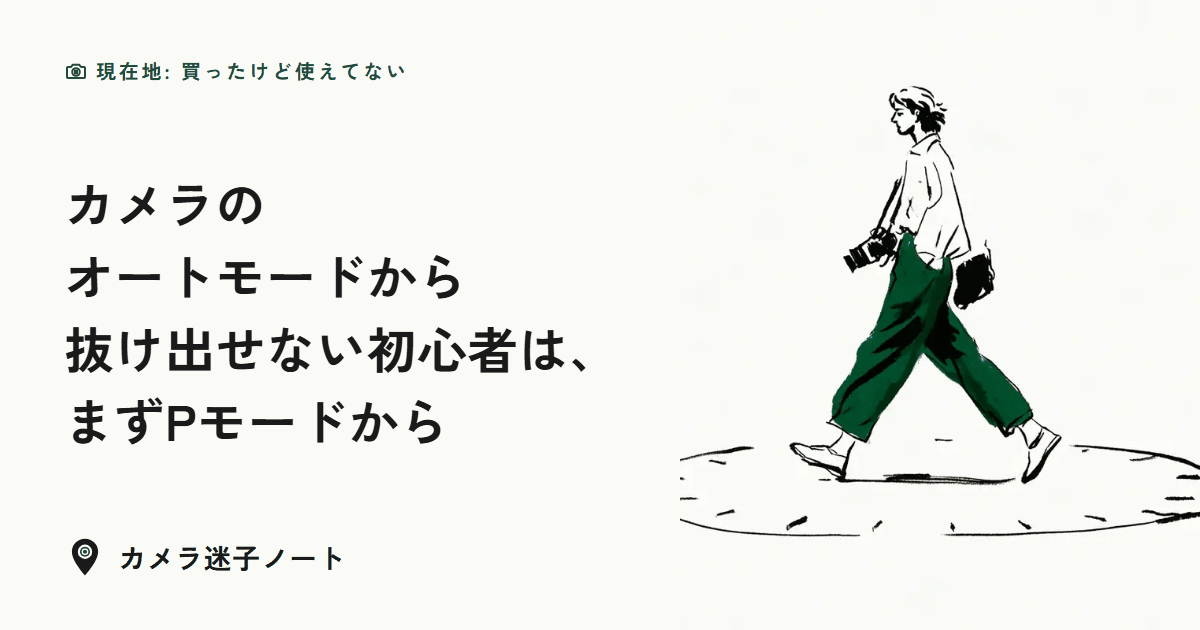
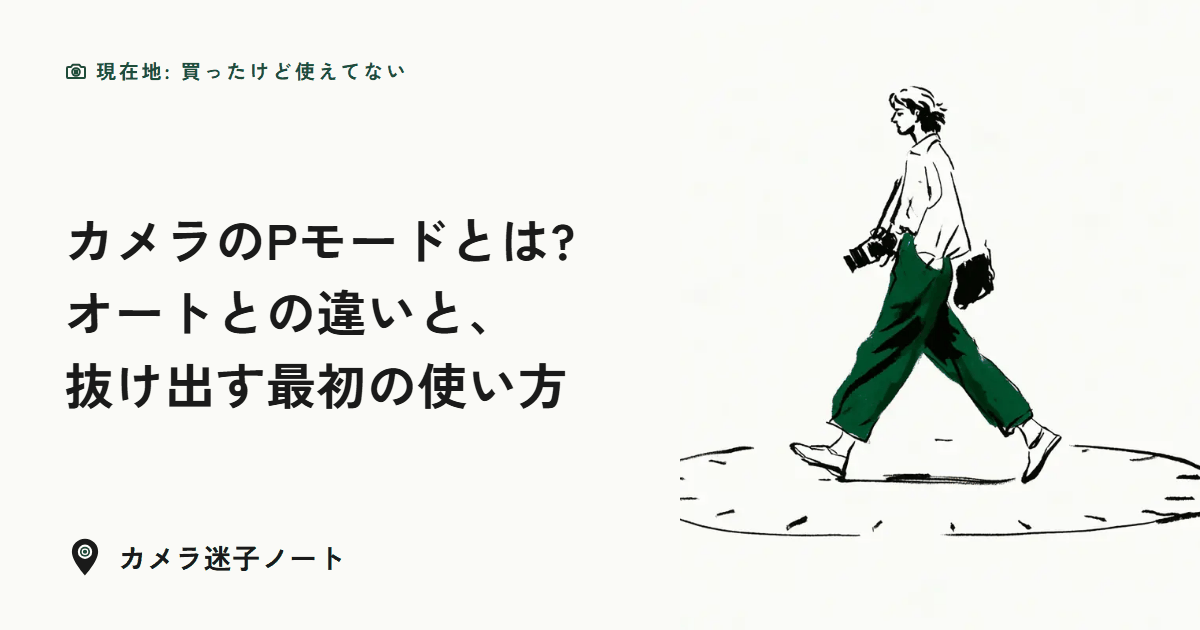
SEO: retitle auto-sotsugyou toward Pモード queries, update anchor texts, link yametoke to saisho-ichidai

Changed region(s): [[0.0308, 0.2714, 0.4933, 0.7238]]

diff --git a/auto-sotsugyou/index.html b/auto-sotsugyou/index.html
@@ -4,13 +4,13 @@
 <meta charset="UTF-8">
 <meta name="viewport" content="width=device-width, initial-scale=1.0">
 <meta http-equiv="Content-Security-Policy" content="default-src 'self'; script-src 'self' 'unsafe-inline' https://www.googletagmanager.com; style-src 'self' 'unsafe-inline' https://fonts.googleapis.com; font-src https://fonts.gstatic.com; img-src 'self' data: https://*.google-analytics.com https://www.googletagmanager.com https://*.a8.net; connect-src 'self' https://www.google-analytics.com https://*.google-analytics.com https://*.analytics.google.com https://www.googletagmanager.com; object-src 'none'; base-uri 'self'">
-<title>カメラのオートモードから抜け出せない初心者は、まずPモードから|カメラ迷子ノート</title>
-<meta name="description" content="オートから抜け出せないなら、最初はPモードから。ISOはオートにしておき、触るのは露出補正だけ。メーカーごとの勧め方の違い、電源を切っても残る補正の戻し方、迷ったときのリセットまで図で整理。">
+<title>カメラのPモードとは?オートとの違いと、抜け出す最初の使い方|カメラ迷子ノート</title>
+<meta name="description" content="Pモード(プログラムオート)は、絞りとシャッタースピードをカメラが決め、露出補正などは自分で変えられるモード。オートから抜け出す最初は、ISOオートのまま露出補正だけ。Aモードとの違い、残る補正の戻し方、リセットまで図で整理。">
 <link rel="canonical" href="https://uuhai0625.github.io/camera-maigo-note/auto-sotsugyou/">
 <meta property="og:type" content="article">
 <meta property="og:site_name" content="カメラ迷子ノート">
-<meta property="og:title" content="カメラのオートモードから抜け出せない初心者は、まずPモードから|カメラ迷子ノート">
-<meta property="og:description" content="オートから抜け出せないなら、最初はPモードから。ISOはオートにしておき、触るのは露出補正だけ。メーカーごとの勧め方の違い、電源を切っても残る補正の戻し方、迷ったときのリセットまで図で整理。">
+<meta property="og:title" content="カメラのPモードとは?オートとの違いと、抜け出す最初の使い方|カメラ迷子ノート">
+<meta property="og:description" content="Pモード(プログラムオート)は、絞りとシャッタースピードをカメラが決め、露出補正などは自分で変えられるモード。オートから抜け出す最初は、ISOオートのまま露出補正だけ。Aモードとの違い、残る補正の戻し方、リセットまで図で整理。">
 <meta property="og:url" content="https://uuhai0625.github.io/camera-maigo-note/auto-sotsugyou/">
 <meta property="og:locale" content="ja_JP">
 <meta property="og:image" content="https://uuhai0625.github.io/camera-maigo-note/auto-sotsugyou/ogp.png">
@@ -27,7 +27,7 @@
 <link rel="stylesheet" href="../style.css">
 <script src="../ga.js" defer></script>
 <script type="application/ld+json">
-{"@context": "https://schema.org", "@graph": [{"@type": "Article", "headline": "カメラのオートモードから抜け出せない初心者は、まずPモードから", "description": "オートから抜け出せないなら、最初はPモードから。ISOはオートにしておき、触るのは露出補正だけ。メーカーごとの勧め方の違い、電源を切っても残る補正の戻し方、迷ったときのリセットまで図で整理。", "url": "https://uuhai0625.github.io/camera-maigo-note/auto-sotsugyou/", "mainEntityOfPage": "https://uuhai0625.github.io/camera-maigo-note/auto-sotsugyou/", "datePublished": "2026-10-02T09:00:00+09:00", "dateModified": "2026-10-09T09:00:00+09:00", "inLanguage": "ja", "author": {"@type": "Organization", "name": "カメラ迷子ノート", "url": "https://uuhai0625.github.io/camera-maigo-note/about/"}, "publisher": {"@type": "Organization", "name": "カメラ迷子ノート", "url": "https://uuhai0625.github.io/camera-maigo-note/", "logo": {"@type": "ImageObject", "url": "https://uuhai0625.github.io/camera-maigo-note/images/logo-square-512.png"}}, "image": "https://uuhai0625.github.io/camera-maigo-note/auto-sotsugyou/ogp.png"}, {"@type": "BreadcrumbList", "itemListElement": [{"@type": "ListItem", "position": 1, "name": "カメラ迷子ノート", "item": "https://uuhai0625.github.io/camera-maigo-note/"}, {"@type": "ListItem", "position": 2, "name": "買ったけど使えてない", "item": "https://uuhai0625.github.io/camera-maigo-note/#stuck"}, {"@type": "ListItem", "position": 3, "name": "カメラのオートモードから抜け出せない初心者は、まずPモードから", "item": "https://uuhai0625.github.io/camera-maigo-note/auto-sotsugyou/"}]}]}
+{"@context": "https://schema.org", "@graph": [{"@type": "Article", "headline": "カメラのPモードとは?オートとの違いと、抜け出す最初の使い方", "description": "Pモード(プログラムオート)は、絞りとシャッタースピードをカメラが決め、露出補正などは自分で変えられるモード。オートから抜け出す最初は、ISOオートのまま露出補正だけ。Aモードとの違い、残る補正の戻し方、リセットまで図で整理。", "url": "https://uuhai0625.github.io/camera-maigo-note/auto-sotsugyou/", "mainEntityOfPage": "https://uuhai0625.github.io/camera-maigo-note/auto-sotsugyou/", "datePublished": "2026-10-02T09:00:00+09:00", "dateModified": "2026-10-14T09:00:00+09:00", "inLanguage": "ja", "author": {"@type": "Organization", "name": "カメラ迷子ノート", "url": "https://uuhai0625.github.io/camera-maigo-note/about/"}, "publisher": {"@type": "Organization", "name": "カメラ迷子ノート", "url": "https://uuhai0625.github.io/camera-maigo-note/", "logo": {"@type": "ImageObject", "url": "https://uuhai0625.github.io/camera-maigo-note/images/logo-square-512.png"}}, "image": "https://uuhai0625.github.io/camera-maigo-note/auto-sotsugyou/ogp.png"}, {"@type": "BreadcrumbList", "itemListElement": [{"@type": "ListItem", "position": 1, "name": "カメラ迷子ノート", "item": "https://uuhai0625.github.io/camera-maigo-note/"}, {"@type": "ListItem", "position": 2, "name": "買ったけど使えてない", "item": "https://uuhai0625.github.io/camera-maigo-note/#stuck"}, {"@type": "ListItem", "position": 3, "name": "カメラのPモードとは?オートとの違いと、抜け出す最初の使い方", "item": "https://uuhai0625.github.io/camera-maigo-note/auto-sotsugyou/"}]}]}
 </script>
 </head>
 <body>
@@ -44,13 +44,13 @@
 <main id="main" class="page">
 <p class="breadcrumb"><a href="../">カメラ迷子ノート</a> › <a href="../#stuck">買ったけど使えてない</a></p>
 <p class="here"><svg class="icon" width="14" height="14" viewBox="0 0 24 24" fill="none" stroke="currentColor" stroke-width="2" stroke-linecap="round" stroke-linejoin="round" aria-hidden="true"><path d="M4 8h3l1.6-2.2h6.8L17 8h3a1 1 0 0 1 1 1v9a1 1 0 0 1-1 1H4a1 1 0 0 1-1-1V9a1 1 0 0 1 1-1z"/><circle cx="12" cy="13" r="3.8"/><path d="M11 11.6v2.8M13 11.6v2.8"/></svg>現在地: 買ったけど使えてない</p>
-<h1>カメラのオートモードから抜け出せない初心者は、まずPモードから</h1>
-<p class="meta">公開 2026-10-02 / 更新 2026-10-09</p>
+<h1>カメラのPモードとは?オートとの違いと、抜け出す最初の使い方</h1>
+<p class="meta">公開 2026-10-02 / 更新 2026-10-14</p>
 <figure class="pic eyecatch"><img src="../images/illust/eye-auto.webp" srcset="../images/illust/eye-auto-m.webp 720w, ../images/illust/eye-auto.webp 1200w" sizes="(max-width: 760px) calc(100vw - 32px), 720px" width="1200" height="800" alt="ダイヤルのような円の上を、カメラを手に歩き出す人の線画イラスト" fetchpriority="high" decoding="async"></figure>
-<p>オートから抜け出せないなら、最初の一歩はPモードです。ISO感度はオートにしておき、自分で触るのは露出補正だけにします。</p>
+<p>Pモード(プログラムオート)は、絞りとシャッタースピードをカメラが決め、露出補正などは自分で変えられるモードです。オートから抜け出せないなら、最初の一歩はPモードです。ISO感度はオートにしておき、自分で触るのは露出補正だけにします。</p>
 <p>範囲は2つに絞ります。明るさが思い通りにならないならPと露出補正、背景をぼかしたいならA(キヤノンではAv)。</p>
 <p><strong>この記事で分かること</strong></p>
-<ul><li><a href="#chigai">全自動とPモードは何が違うのか</a></li><li><a href="#riyuu">メーカーの勧め方は分かれている中で、Pを選んだ理由</a></li><li><a href="#roshutsu-hosei">露出補正は電源を切っても残る機種がある、その戻し方</a></li></ul>
+<ul><li><a href="#chigai">Pモードとは何か、全自動とどう違うのか</a></li><li><a href="#riyuu">メーカーの勧め方は分かれている中で、Pを選んだ理由</a></li><li><a href="#roshutsu-hosei">露出補正は電源を切っても残る機種がある、その戻し方</a></li></ul>
 <p>私はカメラを持たずに調べる側です。この記事は、キヤノン・ニコン・ソニー・パナソニック・OM SYSTEMの説明書と入門ページを読み比べて書きました。実機で試した話はありません。ダイヤルを回すのが怖い人は、先に<a href="#modorikata">戻り方</a>から読んでも大丈夫です。</p>
 <h2 id="tejun">最初の1回の手順</h2>
 <p>順番は私の整理で、メーカーが決めたものではありません。</p>
@@ -65,7 +65,7 @@
   <figcaption><svg class="icon" width="14" height="14" viewBox="0 0 24 24" fill="none" stroke="currentColor" stroke-width="2" stroke-linecap="round" stroke-linejoin="round" aria-hidden="true"><path d="M4 5h16v11h-9l-4.5 3.5V16H4z"/><path d="M9 9.5v2M15 9.5v2"/></svg>出典: <a href="https://cafewriter.hatenablog.com/entry/2014/08/26/234615" target="_blank" rel="noopener">コメモ。「オートでばかり撮っていたデジタル一眼初心者が、いかにしてマニュアルモードで撮るに至ったか。」</a></figcaption>
 </figure>
 <p><a class="term" href="../yougo/#roshutsu">露出</a>は、センサー(光を受け止める板)にどれだけ光を入れるか、ということです。全自動では、その調整をどこでやるのかが見えません。これが、抜け出せない理由のいちばん手前にあるものだと思います。だから、調整の入口が1つだけ開くモードから始めます。</p>
-<h2 id="chigai">全自動とPモードは何が違う?</h2>
+<h2 id="chigai">Pモード(プログラムオート)とは? 全自動(オート)との違い</h2>
 <p>この節は、モードダイヤルのAUTOやA+のような全自動と、Pモードの違いの話です。まず、モードごとに何をカメラが決め、何を自分で決めるのかを表にしました。</p>
 <figure class="fig">
   <svg viewBox="0 0 340 332" role="img" aria-label="モードごとに、誰が決めるかの表。全自動は絞りもシャッタースピードもカメラが決め、露出補正などを自分で変えられるかは機種による。Pは絞りとシャッタースピードをカメラが決め、露出補正などは自分で変えられる。A/Avは絞りを自分で、S/Tvはシャッタースピードを自分で決める。Mはどちらも自分で決め、明るさも自分で合わせる(露出補正が使えるのはISOオートのときなど条件つき)。この記事の次の一歩はP。">
@@ -165,7 +165,7 @@
   <figcaption><svg class="icon" width="14" height="14" viewBox="0 0 24 24" fill="none" stroke="currentColor" stroke-width="2" stroke-linecap="round" stroke-linejoin="round" aria-hidden="true"><path d="M4 5h16v11h-9l-4.5 3.5V16H4z"/><path d="M9 9.5v2M15 9.5v2"/></svg>出典: <a href="https://eww.pavc.panasonic.co.jp/dscoi/DC-S9jp/html/DC-S9_DVQP3137_jpn/0067.html" target="_blank" rel="noopener">パナソニック LUMIX S9 取扱説明書「露出補正」</a></figcaption>
 </figure>
 <p>S9は初期設定でこの動きで、電源を切ったらリセットする設定もあります。キヤノンのR50も、補正量は電源を切っても記憶されます(<a href="https://cam.start.canon/ja/C011/manual/html/UG-05_Shooting-1_0070.html" target="_blank" rel="noopener">R50の露出補正のページ</a>)。ニコンのZ30も、オート以外のモードでは解除されません。+に動かしたまま忘れると、次に撮るときも明るめのままです。使い終わったら補正を0に戻す、までを1セットにしてください。確認したのはこの3機種なので、ほかの機種は自分の説明書で確かめてください。</p>
-<h2 id="wakaremichi">背景をぼかしたいなら絞り優先(A/Av)という分かれ道</h2>
+<h2 id="wakaremichi">PモードとAモード(絞り優先)の違い:背景をぼかしたいときの分かれ道</h2>
 <p>この節は、Pの次ではなく、Pと並ぶもう1つの入口の話です。背景をぼかしたい、と目的がはっきりしているなら、最初からA(キヤノンではAv)を選ぶのも妥当だと思います。上の表で、ソニーのαcafeのレッスン1がAなのは、ぼけ味のレッスンだからです(<a href="https://acafe.msc.sony.jp/college/lesson/1.html" target="_blank" rel="noopener">αcafeのレッスン1</a>)。</p>
 <p>Aは、<a class="term" href="../yougo/#shibori">絞り</a>(F値)を自分で決め、シャッタースピードはカメラが決めるモードです。F値はレンズの光の通り道の広さを表す数字で、小さいほど穴が大きく開きます。ソニーのα6400では、絞り値を小さくすると被写体の前後がぼけます(<a href="https://helpguide.sony.net/ilc/1810/v1/ja/contents/TP0002250605.html" target="_blank" rel="noopener">α6400の絞り優先のページ</a>)。キヤノンのR50も、絞り数値を小さくするとピントの合う範囲が狭くなる、という説明です(<a href="https://cam.start.canon/ja/C011/manual/html/UG-03_CustomShooting_0040.html" target="_blank" rel="noopener">R50のAvモードのページ</a>)。ただし、<a class="term" href="../yougo/#boke">ボケ</a>の大きさはF値だけで決まりません。望遠にする、被写体に近づく、背景を遠くする、でも大きくなります。</p>
 <p>気をつけたいのは、AでF値を小さくしても、写真が明るくなるわけではないことです。カメラがシャッタースピードを変えて、明るさをそろえるからです。</p>

diff --git a/roshutsu-hosei/index.html b/roshutsu-hosei/index.html
@@ -27,7 +27,7 @@
 <link rel="stylesheet" href="../style.css">
 <script src="../ga.js" defer></script>
 <script type="application/ld+json">
-{"@context": "https://schema.org", "@graph": [{"@type": "Article", "headline": "一眼の写真が暗い・白っぽい…露出補正で直る場面と直らない場面", "description": "明るい場所なのに一眼の写真が暗い・白っぽいのは、カメラが画面を中間の明るさに近づけるから。露出補正は白い背景なら+、黒い服なら−が基本。例外と確かめ方、Mモードなど効かない場面も整理。", "url": "https://uuhai0625.github.io/camera-maigo-note/roshutsu-hosei/", "mainEntityOfPage": "https://uuhai0625.github.io/camera-maigo-note/roshutsu-hosei/", "datePublished": "2026-10-04T09:00:00+09:00", "dateModified": "2026-10-09T09:00:00+09:00", "inLanguage": "ja", "author": {"@type": "Organization", "name": "カメラ迷子ノート", "url": "https://uuhai0625.github.io/camera-maigo-note/about/"}, "publisher": {"@type": "Organization", "name": "カメラ迷子ノート", "url": "https://uuhai0625.github.io/camera-maigo-note/", "logo": {"@type": "ImageObject", "url": "https://uuhai0625.github.io/camera-maigo-note/images/logo-square-512.png"}}, "image": "https://uuhai0625.github.io/camera-maigo-note/roshutsu-hosei/ogp.png"}, {"@type": "BreadcrumbList", "itemListElement": [{"@type": "ListItem", "position": 1, "name": "カメラ迷子ノート", "item": "https://uuhai0625.github.io/camera-maigo-note/"}, {"@type": "ListItem", "position": 2, "name": "買ったけど使えてない", "item": "https://uuhai0625.github.io/camera-maigo-note/#stuck"}, {"@type": "ListItem", "position": 3, "name": "一眼の写真が暗い・白っぽい…露出補正で直る場面と直らない場面", "item": "https://uuhai0625.github.io/camera-maigo-note/roshutsu-hosei/"}]}]}
+{"@context": "https://schema.org", "@graph": [{"@type": "Article", "headline": "一眼の写真が暗い・白っぽい…露出補正で直る場面と直らない場面", "description": "明るい場所なのに一眼の写真が暗い・白っぽいのは、カメラが画面を中間の明るさに近づけるから。露出補正は白い背景なら+、黒い服なら−が基本。例外と確かめ方、Mモードなど効かない場面も整理。", "url": "https://uuhai0625.github.io/camera-maigo-note/roshutsu-hosei/", "mainEntityOfPage": "https://uuhai0625.github.io/camera-maigo-note/roshutsu-hosei/", "datePublished": "2026-10-04T09:00:00+09:00", "dateModified": "2026-10-14T09:00:00+09:00", "inLanguage": "ja", "author": {"@type": "Organization", "name": "カメラ迷子ノート", "url": "https://uuhai0625.github.io/camera-maigo-note/about/"}, "publisher": {"@type": "Organization", "name": "カメラ迷子ノート", "url": "https://uuhai0625.github.io/camera-maigo-note/", "logo": {"@type": "ImageObject", "url": "https://uuhai0625.github.io/camera-maigo-note/images/logo-square-512.png"}}, "image": "https://uuhai0625.github.io/camera-maigo-note/roshutsu-hosei/ogp.png"}, {"@type": "BreadcrumbList", "itemListElement": [{"@type": "ListItem", "position": 1, "name": "カメラ迷子ノート", "item": "https://uuhai0625.github.io/camera-maigo-note/"}, {"@type": "ListItem", "position": 2, "name": "買ったけど使えてない", "item": "https://uuhai0625.github.io/camera-maigo-note/#stuck"}, {"@type": "ListItem", "position": 3, "name": "一眼の写真が暗い・白っぽい…露出補正で直る場面と直らない場面", "item": "https://uuhai0625.github.io/camera-maigo-note/roshutsu-hosei/"}]}]}
 </script>
 </head>
 <body>
@@ -45,7 +45,7 @@
 <p class="breadcrumb"><a href="../">カメラ迷子ノート</a> › <a href="../#stuck">買ったけど使えてない</a></p>
 <p class="here"><svg class="icon" width="14" height="14" viewBox="0 0 24 24" fill="none" stroke="currentColor" stroke-width="2" stroke-linecap="round" stroke-linejoin="round" aria-hidden="true"><path d="M4 8h3l1.6-2.2h6.8L17 8h3a1 1 0 0 1 1 1v9a1 1 0 0 1-1 1H4a1 1 0 0 1-1-1V9a1 1 0 0 1 1-1z"/><circle cx="12" cy="13" r="3.8"/><path d="M11 11.6v2.8M13 11.6v2.8"/></svg>現在地: 買ったけど使えてない</p>
 <h1>一眼の写真が暗い・白っぽい…露出補正で直る場面と直らない場面</h1>
-<p class="meta">公開 2026-10-04 / 更新 2026-10-09</p>
+<p class="meta">公開 2026-10-04 / 更新 2026-10-14</p>
 <figure class="pic eyecatch"><img src="../images/illust/eye-roshutsu.webp" srcset="../images/illust/eye-roshutsu-m.webp 720w, ../images/illust/eye-roshutsu.webp 1200w" sizes="(max-width: 760px) calc(100vw - 32px), 720px" width="1200" height="800" alt="並んで座る白い猫と黒い猫を、しゃがんでカメラで撮っている人の線画イラスト" fetchpriority="high" decoding="async"></figure>
 <p>明るい場所で撮ったのに、一眼レフやミラーレス(レンズを交換できるカメラ)の写真が暗い、または白っぽい。露出補正(カメラが決めた明るさを、自分で少し明るく・暗くずらす機能。<a class="term" href="../yougo/#roshutsu-hosei">言葉の意味</a>)を、画面の大部分が白っぽいなら+、黒っぽいなら−に動かすと直る場面があります。カメラが画面全体を中間の明るさに近づけようとするために起きるずれだからです。ただし、空と地上の明暗差や、明るさを全部自分で決めるMモードのように、露出補正では直らない場面もあります。</p>
 <p>症状と場面から補正の向きを引くなら、<a href="#hayami">症状別の早見表</a>へ。暗い場所でブレる・ザラザラになるのは別の原因なので、<a href="../kurai-bure/">暗いところで撮れない…</a>のほうが合います。</p>
@@ -227,7 +227,7 @@
 <p>表示の−1.0は、カメラが決めた明るさ(タムロンの言い方では標準露出)より1段暗い、という意味です(<a href="https://nij.nikon.com/learn/phototech/manual/04/07.html" target="_blank" rel="noopener">ニコン「露出補正」</a>)。α6400やOM-5 Mark IIのように、画面で見える範囲と記録される範囲が違う機種もあります。</p>
 <h2 id="gokai">露出補正がわからない…つまずきやすい誤解</h2>
 <p>35人の声の中には、向きより手前でつまずいた人が何人もいました。整理すると4つです。</p>
-<p><strong>撮った後の加工ではない。</strong> 露出補正は撮影後に編集でするのか、と質問した人が2人いました(<a href="https://detail.chiebukuro.yahoo.co.jp/qa/question_detail/q10270907745" target="_blank" rel="noopener">2022年の相談</a>、<a href="https://detail.chiebukuro.yahoo.co.jp/qa/question_detail/q14270254434" target="_blank" rel="noopener">2022年の別の相談</a>)。撮影のときに明るさそのものを変える機能で、仕組みは<a href="../auto-sotsugyou/#roshutsu-hosei">オートモードから抜け出せない…</a>に書きました。</p>
+<p><strong>撮った後の加工ではない。</strong> 露出補正は撮影後に編集でするのか、と質問した人が2人いました(<a href="https://detail.chiebukuro.yahoo.co.jp/qa/question_detail/q10270907745" target="_blank" rel="noopener">2022年の相談</a>、<a href="https://detail.chiebukuro.yahoo.co.jp/qa/question_detail/q14270254434" target="_blank" rel="noopener">2022年の別の相談</a>)。撮影のときに明るさそのものを変える機能で、仕組みは<a href="../auto-sotsugyou/#roshutsu-hosei">カメラのPモードとは?…</a>に書きました。</p>
 <p><strong>ISO感度とは別もの。</strong> 露出補正を上げればISO感度を上げる必要はないのでは、と質問した人は、勘違いだったとお礼を書いていました(<a href="https://detail.chiebukuro.yahoo.co.jp/qa/question_detail/q10222166920" target="_blank" rel="noopener">2020年の相談</a>)。回答者の助言は、ISOを変えることと露出補正では撮影結果が違うので切り離して考える、でした。逆光でのISOの値を質問した人には、絞りとシャッタースピードがオートならISOを変えても写真の明るさは変わらない、という回答です(<a href="https://detail.chiebukuro.yahoo.co.jp/qa/question_detail/q11315459031" target="_blank" rel="noopener">2025年の相談</a>)。暗い室内の話は、<a href="../kurai-bure/">暗いところで撮れない…</a>のほうです。</p>
 <p><strong>Mモードの露出の目盛りは、補正値ではない。</strong> 設定した記憶がないのに露出が−3から動かない、という相談がありました(<a href="https://detail.chiebukuro.yahoo.co.jp/qa/question_detail/q11109196726" target="_blank" rel="noopener">2013年の相談、OM-D E-M5</a>)。回答は、その−3は補正ではなく、絞りとシャッタースピードの組み合わせが適正より3段暗いという表示だ、というものです。</p>
 <p><strong>ホワイトバランスでは直らない。</strong> 白い背景が灰色に写り、ホワイトバランス(色合いの調整)を変えても白に近づかない人がいました(<a href="https://detail.chiebukuro.yahoo.co.jp/qa/question_detail/q1091229625" target="_blank" rel="noopener">2012年の相談</a>)。回答者は、白が灰色に写るならホワイトバランスは狂っていない、と答えています。</p>
@@ -241,7 +241,7 @@
 <p>この記事で数えたのは、写真の明るさや露出補正について書いた35人です。28人がYahoo!知恵袋、7人がnoteで、質問者は全員、回答者は自分の撮影体験や作例を書いた2人だけを数えました。noteの7人のうち3人は、解説記事の書き手です。投稿の年代は2008〜2013年が11人、2019年以降が23人、その間が1人で、古い相談が目立ちます。コンパクトカメラやレンズ一体型で撮っていた人も5人いて、一眼レフやミラーレスだけの話ではありません。場面ごとの分け方は私の読み方です。知恵袋が多いぶん、うまくいかなかった瞬間の声が中心で、どの場面の人が多かったかは分け方で入れ替わる程度の差なので、順位は書きません。</p>
 <section class="next" aria-labelledby="next-h">
   <h2 id="next-h">次に読むなら</h2>
-  <ul><li><a href="../kurai-bure/">暗いところで撮れない…室内・夜にブレる・ザラザラになる原因と対策</a></li><li><a href="../auto-sotsugyou/">カメラのオートモードから抜け出せない初心者は、まずPモードから</a></li><li><a href="../#stuck">「買ったけど使えてない」の記事をもっと見る</a></li></ul>
+  <ul><li><a href="../kurai-bure/">暗いところで撮れない…室内・夜にブレる・ザラザラになる原因と対策</a></li><li><a href="../auto-sotsugyou/">カメラのPモードとは?オートとの違いと、抜け出す最初の使い方</a></li><li><a href="../#stuck">「買ったけど使えてない」の記事をもっと見る</a></li></ul>
 </section>
 <h2 id="yonda">この記事で読んだ61件</h2>
 <h3>メーカー公式・取扱説明書</h3>

diff --git a/yougo/index.html b/yougo/index.html
@@ -62,7 +62,7 @@
 <section id="shibori">
   <h2>絞り(F値)</h2>
   <p>F値は光の通り道の広さを表す数字。数字が小さいほど穴が大きく、多くの光が通り、背景はぼけやすい。(写真の明るさは、カメラがシャッタースピードなどで合わせ直すことが多い)</p>
-  <p class="term-rel">この言葉が出てくる記事: <a href="../kurai-bure/">暗いところで撮れない…室内・夜にブレる・ザラザラになる原因と対策</a>、<a href="../auto-sotsugyou/">カメラのオートモードから抜け出せない初心者は、まずPモードから</a></p>
+  <p class="term-rel">この言葉が出てくる記事: <a href="../kurai-bure/">暗いところで撮れない…室内・夜にブレる・ザラザラになる原因と対策</a>、<a href="../auto-sotsugyou/">カメラのPモードとは?オートとの違いと、抜け出す最初の使い方</a></p>
   <details><summary>もう少し正確に言うと</summary><p class="def">絞りはレンズの中で光の通る穴の大きさを変える仕組みで、F値(絞り値)はその明るさを表す数値。F値は「焦点距離÷有効口径」で求められる(Canon)。F値が小さいほど穴が大きく開き、多くの光が通る。F値が大きいほど穴が小さくなり、光は少なくなる。</p><ul><li><a href="https://nij.nikon.com/learn/phototech/manual/04/04.html" target="_blank" rel="noopener">Nikon「絞り値(F値)」</a></li><li><a href="https://personal.canon.jp/articles/beginner/glossary/f-chi" target="_blank" rel="noopener">Canon 写真用語集「F値」</a></li></ul></details>
 </section>
 <section id="shutter-speed">
@@ -80,7 +80,7 @@
 <section id="roshutsu-hosei">
   <h2>露出補正</h2>
   <p>カメラ任せの明るさに「もうちょっと明るく/暗く」と注文をつける機能。</p>
-  <p class="term-rel">この言葉が出てくる記事: <a href="../roshutsu-hosei/">一眼の写真が暗い・白っぽい…露出補正で直る場面と直らない場面</a>、<a href="../auto-sotsugyou/">カメラのオートモードから抜け出せない初心者は、まずPモードから</a></p>
+  <p class="term-rel">この言葉が出てくる記事: <a href="../roshutsu-hosei/">一眼の写真が暗い・白っぽい…露出補正で直る場面と直らない場面</a>、<a href="../auto-sotsugyou/">カメラのPモードとは?オートとの違いと、抜け出す最初の使い方</a></p>
   <details><summary>もう少し正確に言うと</summary><p class="def">カメラが自動で決めた露出を基準にして、写真を意図的に明るく(+側)または暗く(−側)する機能。多くの場合、1/3段刻みで設定する(例: −1.0、−0.7、−0.3、0、+0.3、+0.7、+1.0)。主にP・A(Av)・S(Tv)などの自動露出モードで使う。</p><p class="def-note"><b>注意</b></p><ul class="def"><li>Mモードでの露出補正の扱い(ISOオート併用時に効くかどうか等)は機種によって違う。記事で触れる場合は「機種によって異なる」と書く。</li></ul><ul><li><a href="https://nij.nikon.com/learn/phototech/manual/04/07.html" target="_blank" rel="noopener">Nikon「露出補正」</a></li><li><a href="https://personal.canon.jp/articles/beginner/glossary/exposure-compensation" target="_blank" rel="noopener">Canon 写真用語集「露出補正」</a></li></ul></details>
 </section>
 <section id="hishakai-shindo">
@@ -92,7 +92,7 @@
 <section id="boke">
   <h2>ボケ</h2>
   <p>ピントが合っていないところがふんわりにじむこと。F値を小さくする、望遠にする、被写体に近づく、背景を遠くする、の4つで大きくなる。</p>
-  <p class="term-rel">この言葉が出てくる記事: <a href="../smartphone-jubun/">スマホで十分、一眼はいらない?カメラで差が出やすい3つの場面</a>、<a href="../auto-sotsugyou/">カメラのオートモードから抜け出せない初心者は、まずPモードから</a></p>
+  <p class="term-rel">この言葉が出てくる記事: <a href="../smartphone-jubun/">スマホで十分、一眼はいらない?カメラで差が出やすい3つの場面</a>、<a href="../auto-sotsugyou/">カメラのPモードとは?オートとの違いと、抜け出す最初の使い方</a></p>
   <details><summary>もう少し正確に言うと</summary><p class="def">ピントが合った位置から外れた部分が、にじんだように写る状態。ボケの大きさは主に4つで決まる: ①絞り(F値が小さいほど大きい)、②焦点距離(長いほど大きい)、③カメラと被写体の距離(近いほど大きい)、④被写体と背景の距離(遠いほど大きい)。ピントの手前にできるボケを「前ボケ」、奥にできるボケを「後ボケ」と呼ぶ。「ボケ味」はボケの量ではなく、ボケの質(にじみ方・形・なめらかさ)を指す。</p><ul><li><a href="https://nij.nikon.com/learn/phototech/lenslesson/lesson25.html" target="_blank" rel="noopener">Nikon「Lesson25:ボケを活かした写真の撮りかた」</a></li><li><a href="https://personal.canon.jp/articles/beginner/glossary/bokeh" target="_blank" rel="noopener">Canon 写真用語集「ボケ味」</a></li><li><a href="https://nij.nikon.com/learn/phototech/manual/19/05.html" target="_blank" rel="noopener">Nikon「被写界深度」</a></li></ul></details>
 </section>
 <section id="shouten-kyori">
@@ -165,7 +165,7 @@
 <section id="mode">
   <h2>撮影モード(P・A/Av・S/Tv・M)</h2>
   <p>Pは「明るさを決める組み合わせ(絞りとシャッタースピード)だけおまかせ。露出補正などは自分で変えられる」、A/Avは「ボケ具合を自分で決める」、S/Tvは「動きの写り方を自分で決める」、Mは「全部自分で決める」。</p>
-  <p class="term-rel">この言葉が出てくる記事: <a href="../auto-sotsugyou/">カメラのオートモードから抜け出せない初心者は、まずPモードから</a>、<a href="../kurai-bure/">暗いところで撮れない…室内・夜にブレる・ザラザラになる原因と対策</a></p>
+  <p class="term-rel">この言葉が出てくる記事: <a href="../auto-sotsugyou/">カメラのPモードとは?オートとの違いと、抜け出す最初の使い方</a>、<a href="../kurai-bure/">暗いところで撮れない…室内・夜にブレる・ザラザラになる原因と対策</a></p>
   <details><summary>もう少し正確に言うと</summary><ul class="def"><li>P(プログラムオート): 絞りとシャッタースピードの両方をカメラが自動で決める。撮影者は、明るさを変えずに組み合わせだけを変えられる(プログラムシフト)。</li><li>A(Nikon・Sony等)/Av(Canon)=絞り優先オート: 撮影者が絞り値を決め、カメラがシャッタースピードを決める。</li><li>S(Nikon・Sony等)/Tv(Canon)=シャッター優先オート: 撮影者がシャッタースピードを決め、カメラが絞り値を決める。</li><li>M(マニュアル露出): 絞り値とシャッタースピードの両方を撮影者が決める。</li><li>ISO感度は、どのモードでも手動かオートかを別に選べる機種が多い。</li></ul><ul><li><a href="https://nij.nikon.com/learn/phototech/manual/04/06.html" target="_blank" rel="noopener">Nikon「撮影モード」</a></li><li><a href="https://personal.canon.jp/articles/beginner/glossary/shiboriyusen-ae" target="_blank" rel="noopener">Canon 写真用語集「絞り優先AE」</a></li><li><a href="https://personal.canon.jp/articles/beginner/glossary/shutter-yusen-ae" target="_blank" rel="noopener">Canon 写真用語集「シャッター優先AE」</a></li></ul></details>
 </section>
 <section id="af">
@@ -205,7 +205,7 @@
 <section id="iso-auto">
   <h2>ISOオート(感度自動制御)と上限感度・低速限界</h2>
   <p>暗くなるとカメラが自動でISO感度を上げてくれる機能。ただし「ここまで」という上限があって、上限まで上げても暗いときは、シャッターを長く開けて明るさを補う。</p>
-  <p class="term-rel">この言葉が出てくる記事: <a href="../kurai-bure/">暗いところで撮れない…室内・夜にブレる・ザラザラになる原因と対策</a>、<a href="../auto-sotsugyou/">カメラのオートモードから抜け出せない初心者は、まずPモードから</a></p>
+  <p class="term-rel">この言葉が出てくる記事: <a href="../kurai-bure/">暗いところで撮れない…室内・夜にブレる・ザラザラになる原因と対策</a>、<a href="../auto-sotsugyou/">カメラのPモードとは?オートとの違いと、抜け出す最初の使い方</a></p>
   <details><summary>もう少し正確に言うと</summary><p class="def">設定したISO感度では適正露出にならないときに、カメラが自動でISO感度を変える機能。ニコンは「感度自動制御」、ソニーは「ISO AUTO」、キヤノンは「ISOオート」と呼ぶ。オート撮影(全自動)ではISO感度がもともと自動で決まり、P・A/Av・S/Tv・MではISOオートを選んだときに働く。ISOオートには、高くなりすぎないようにする上限感度がある。PモードやA/Avモードでは、ISO感度が上がり始めるシャッタースピード(ニコン・キヤノンは低速限界、ソニーはISO AUTO低速限界)も決まっていて、初期設定ではレンズの焦点距離などに応じてカメラが決める。上限感度まで上げても暗いときは、低速限界より遅いシャッタースピードになる(ニコン・キヤノン・ソニーの取扱説明書)。</p><ul><li><a href="https://onlinemanual.nikonimglib.com/d780/ja/06_shooting_settings_06.html" target="_blank" rel="noopener">Nikon D780 使用説明書「光に対する感度を設定する(ISO感度)」</a></li><li><a href="https://cam.start.canon/ja/C006/manual/html/UG-05_Shooting-1_0090.html" target="_blank" rel="noopener">Canon EOS R10 製品マニュアル「静止画のISO感度を設定」</a></li><li><a href="https://helpguide.sony.net/ilc/1810/v1/ja/contents/TP0002262525.html" target="_blank" rel="noopener">Sony α6400 ヘルプガイド「ISO感度設定:ISO AUTO低速限界」</a></li><li><a href="https://nij.nikon.com/support/faq/products/article?articleNo=000056089" target="_blank" rel="noopener">Nikon Q&amp;A「Z30/Z50 の感度自動制御機能について」</a></li></ul></details>
 </section>
 </div>

diff --git a/kurai-bure/index.html b/kurai-bure/index.html
@@ -27,7 +27,7 @@
 <link rel="stylesheet" href="../style.css">
 <script src="../ga.js" defer></script>
 <script type="application/ld+json">
-{"@context": "https://schema.org", "@graph": [{"@type": "Article", "headline": "暗いところで撮れない…室内・夜にブレる・ザラザラになる原因と対策", "description": "暗い室内や夜にブレる・ザラザラになるのは光不足。オートでもブレるのは、ISOオートに上限があり、届くとシャッターが遅くなるからです。手ブレ・被写体ブレ・ノイズの見分け方と、症状別の対策を図で整理。", "url": "https://uuhai0625.github.io/camera-maigo-note/kurai-bure/", "mainEntityOfPage": "https://uuhai0625.github.io/camera-maigo-note/kurai-bure/", "datePublished": "2026-10-02T09:00:00+09:00", "dateModified": "2026-10-09T09:00:00+09:00", "inLanguage": "ja", "author": {"@type": "Organization", "name": "カメラ迷子ノート", "url": "https://uuhai0625.github.io/camera-maigo-note/about/"}, "publisher": {"@type": "Organization", "name": "カメラ迷子ノート", "url": "https://uuhai0625.github.io/camera-maigo-note/", "logo": {"@type": "ImageObject", "url": "https://uuhai0625.github.io/camera-maigo-note/images/logo-square-512.png"}}, "image": "https://uuhai0625.github.io/camera-maigo-note/kurai-bure/ogp.png"}, {"@type": "BreadcrumbList", "itemListElement": [{"@type": "ListItem", "position": 1, "name": "カメラ迷子ノート", "item": "https://uuhai0625.github.io/camera-maigo-note/"}, {"@type": "ListItem", "position": 2, "name": "買ったけど使えてない", "item": "https://uuhai0625.github.io/camera-maigo-note/#stuck"}, {"@type": "ListItem", "position": 3, "name": "暗いところで撮れない…室内・夜にブレる・ザラザラになる原因と対策", "item": "https://uuhai0625.github.io/camera-maigo-note/kurai-bure/"}]}]}
+{"@context": "https://schema.org", "@graph": [{"@type": "Article", "headline": "暗いところで撮れない…室内・夜にブレる・ザラザラになる原因と対策", "description": "暗い室内や夜にブレる・ザラザラになるのは光不足。オートでもブレるのは、ISOオートに上限があり、届くとシャッターが遅くなるからです。手ブレ・被写体ブレ・ノイズの見分け方と、症状別の対策を図で整理。", "url": "https://uuhai0625.github.io/camera-maigo-note/kurai-bure/", "mainEntityOfPage": "https://uuhai0625.github.io/camera-maigo-note/kurai-bure/", "datePublished": "2026-10-02T09:00:00+09:00", "dateModified": "2026-10-14T09:00:00+09:00", "inLanguage": "ja", "author": {"@type": "Organization", "name": "カメラ迷子ノート", "url": "https://uuhai0625.github.io/camera-maigo-note/about/"}, "publisher": {"@type": "Organization", "name": "カメラ迷子ノート", "url": "https://uuhai0625.github.io/camera-maigo-note/", "logo": {"@type": "ImageObject", "url": "https://uuhai0625.github.io/camera-maigo-note/images/logo-square-512.png"}}, "image": "https://uuhai0625.github.io/camera-maigo-note/kurai-bure/ogp.png"}, {"@type": "BreadcrumbList", "itemListElement": [{"@type": "ListItem", "position": 1, "name": "カメラ迷子ノート", "item": "https://uuhai0625.github.io/camera-maigo-note/"}, {"@type": "ListItem", "position": 2, "name": "買ったけど使えてない", "item": "https://uuhai0625.github.io/camera-maigo-note/#stuck"}, {"@type": "ListItem", "position": 3, "name": "暗いところで撮れない…室内・夜にブレる・ザラザラになる原因と対策", "item": "https://uuhai0625.github.io/camera-maigo-note/kurai-bure/"}]}]}
 </script>
 </head>
 <body>
@@ -46,7 +46,7 @@
 <p class="ad-notice">この記事には広告(アフィリエイトリンク)が含まれます。</p>
 <p class="here"><svg class="icon" width="14" height="14" viewBox="0 0 24 24" fill="none" stroke="currentColor" stroke-width="2" stroke-linecap="round" stroke-linejoin="round" aria-hidden="true"><path d="M4 8h3l1.6-2.2h6.8L17 8h3a1 1 0 0 1 1 1v9a1 1 0 0 1-1 1H4a1 1 0 0 1-1-1V9a1 1 0 0 1 1-1z"/><circle cx="12" cy="13" r="3.8"/><path d="M11 11.6v2.8M13 11.6v2.8"/></svg>現在地: 買ったけど使えてない</p>
 <h1>暗いところで撮れない…室内・夜にブレる・ザラザラになる原因と対策</h1>
-<p class="meta">公開 2026-10-02 / 更新 2026-10-09</p>
+<p class="meta">公開 2026-10-02 / 更新 2026-10-14</p>
 <figure class="pic eyecatch"><img src="../images/illust/eye-kurai.webp" srcset="../images/illust/eye-kurai-m.webp 720w, ../images/illust/eye-kurai.webp 1200w" sizes="(max-width: 760px) calc(100vw - 32px), 720px" width="1200" height="800" alt="ランプのそばで眠る猫に、カメラを向けている人の線画イラスト" fetchpriority="high" decoding="async"></figure>
 <p>暗い場所で撮った写真がブレたり、ザラザラになったりするのは、光が足りないからです。カメラは足りない分を3つの方法で補いますが、その代わりにブレやザラザラが出ます。すぐ試せるのは、部屋の明かりをつける・どこかに置いて撮る・ズームを広い側に戻す、あたりです。</p>
 <p>この記事は、一眼レフやミラーレス(レンズを交換できるカメラ)で、撮れてはいるのにブレる・ザラザラになる場合の話です。ブレもザラザラもなく、ただ暗く写るだけなら、<a class="term" href="../yougo/#roshutsu">露出</a>(明るさの設定)の話に近いので、<a href="../roshutsu-hosei/">一眼の写真が暗い・白っぽい…露出補正で直る場面と直らない場面</a>のほうが合うと思います。先に対策だけ知りたい人は、<a href="#hayami">症状別の早見表</a>へどうぞ。</p>
@@ -224,7 +224,7 @@
 <p>三脚は、夜景のように動かないものを撮るときの対策です。カメラが動かなくなるので、シャッターが遅くてもブレず、ISO感度も低めにできます。三脚を使うときに手ブレ補正を切るかどうかは機種で違うので、取扱説明書に従ってください。大きい三脚を買って持ち出さなくなった人の声は、<a href="../accessory/#tripod">カメラアクセサリーは初心者に必要?</a>にあります。下のリンクは「カメラ 三脚」で楽天市場を検索します。持ち出せるかどうかは、重さと畳んだ長さで見比べられます。</p>
 <a class="aff-card" href="https://hb.afl.rakuten.co.jp/hgc/567f9cc6.631b3687.567f9cc7.3d3a8a85/?pc=https%3A%2F%2Fsearch.rakuten.co.jp%2Fsearch%2Fmall%2F%25E3%2582%25AB%25E3%2583%25A1%25E3%2583%25A9%2520%25E4%25B8%2589%25E8%2584%259A%2F%3Fs%3D5&amp;link_type=text&amp;ut=eyJwYWdlIjoidXJsIiwidHlwZSI6InRleHQiLCJjb2wiOjF9" data-rakuten-keyword="カメラ 三脚" data-aff="tripod" data-program="カメラ用の三脚(楽天市場で探す)" target="_blank" rel="nofollow noopener sponsored"><span class="pr">PR(広告)</span><span class="aff-body"><b>カメラ用の三脚</b><span class="sub">楽天市場の検索結果へ</span></span><span class="go">楽天市場で値段を見る</span></a>
 <h3>被写体ブレ(動いた人や物だけ流れる)</h3>
-<p>被写体ブレは、三脚でも手ブレ補正でも止まりません。減らすには、シャッタースピードを速くする必要があります(<a class="term" href="../yougo/#bure">手ブレと被写体ブレ</a>)。カメラの設定では、Pモードなどにして、ISO感度を上げる方法があります。ISOオートのままなら、上限感度や低速限界を見直す方法もあります。どちらも設定できる機種とモードは限られるので、取扱説明書で確認してください。全自動からPモードへの移り方は、<a href="../auto-sotsugyou/">オートモードから抜け出せない初心者は、まずPモードから</a>にまとめました。</p>
+<p>被写体ブレは、三脚でも手ブレ補正でも止まりません。減らすには、シャッタースピードを速くする必要があります(<a class="term" href="../yougo/#bure">手ブレと被写体ブレ</a>)。カメラの設定では、Pモードなどにして、ISO感度を上げる方法があります。ISOオートのままなら、上限感度や低速限界を見直す方法もあります。どちらも設定できる機種とモードは限られるので、取扱説明書で確認してください。全自動からPモードへの移り方は、<a href="../auto-sotsugyou/">カメラのPモードとは?オートとの違いと、抜け出す最初の使い方</a>にまとめました。</p>
 <p>キヤノンのEOS R50の説明書には、暗い場所で人物を撮るとき、撮影中に動くとブレた写真になる、という注意があります(<a href="https://cam.start.canon/ja/C011/manual/html/UG-02_BasicShooting_0020.html" target="_blank" rel="noopener">全自動撮影のページ</a>)。相手が止まれる場面なら、ひと声かけてから撮るのも対策の1つだと思います。</p>
 <h3>ザラザラ(全体に細かい粒が出る)</h3>
 <p>ISO感度を上げるとザラザラが増えます。ここは、ブレとザラザラのどちらを取るかを選ぶ話になります。ニコンの入門ページは、ISO感度の決め方をこうまとめています。</p>

diff --git a/saisho-ichidai/index.html b/saisho-ichidai/index.html
@@ -27,7 +27,7 @@
 <link rel="stylesheet" href="../style.css">
 <script src="../ga.js" defer></script>
 <script type="application/ld+json">
-{"@context": "https://schema.org", "@graph": [{"@type": "Article", "headline": "初めてのカメラ、最初の一台は何で決めた?後悔した人・満足した人の声", "description": "初めてのカメラを何で決めたか、その後どうなったかを64人分読むと、見た目でも安さでも、満足した人と後悔した人の両方がいました。何を買ったかの集計、買う前に分かれ目を確かめる問い、店頭で触る・借りるの声も。", "url": "https://uuhai0625.github.io/camera-maigo-note/saisho-ichidai/", "mainEntityOfPage": "https://uuhai0625.github.io/camera-maigo-note/saisho-ichidai/", "datePublished": "2026-10-03T09:00:00+09:00", "dateModified": "2026-10-09T09:00:00+09:00", "inLanguage": "ja", "author": {"@type": "Organization", "name": "カメラ迷子ノート", "url": "https://uuhai0625.github.io/camera-maigo-note/about/"}, "publisher": {"@type": "Organization", "name": "カメラ迷子ノート", "url": "https://uuhai0625.github.io/camera-maigo-note/", "logo": {"@type": "ImageObject", "url": "https://uuhai0625.github.io/camera-maigo-note/images/logo-square-512.png"}}, "image": "https://uuhai0625.github.io/camera-maigo-note/saisho-ichidai/ogp.png"}, {"@type": "BreadcrumbList", "itemListElement": [{"@type": "ListItem", "position": 1, "name": "カメラ迷子ノート", "item": "https://uuhai0625.github.io/camera-maigo-note/"}, {"@type": "ListItem", "position": 2, "name": "買う前に迷ってる", "item": "https://uuhai0625.github.io/camera-maigo-note/#before"}, {"@type": "ListItem", "position": 3, "name": "初めてのカメラ、最初の一台は何で決めた?後悔した人・満足した人の声", "item": "https://uuhai0625.github.io/camera-maigo-note/saisho-ichidai/"}]}]}
+{"@context": "https://schema.org", "@graph": [{"@type": "Article", "headline": "初めてのカメラ、最初の一台は何で決めた?後悔した人・満足した人の声", "description": "初めてのカメラを何で決めたか、その後どうなったかを64人分読むと、見た目でも安さでも、満足した人と後悔した人の両方がいました。何を買ったかの集計、買う前に分かれ目を確かめる問い、店頭で触る・借りるの声も。", "url": "https://uuhai0625.github.io/camera-maigo-note/saisho-ichidai/", "mainEntityOfPage": "https://uuhai0625.github.io/camera-maigo-note/saisho-ichidai/", "datePublished": "2026-10-03T09:00:00+09:00", "dateModified": "2026-10-14T09:00:00+09:00", "inLanguage": "ja", "author": {"@type": "Organization", "name": "カメラ迷子ノート", "url": "https://uuhai0625.github.io/camera-maigo-note/about/"}, "publisher": {"@type": "Organization", "name": "カメラ迷子ノート", "url": "https://uuhai0625.github.io/camera-maigo-note/", "logo": {"@type": "ImageObject", "url": "https://uuhai0625.github.io/camera-maigo-note/images/logo-square-512.png"}}, "image": "https://uuhai0625.github.io/camera-maigo-note/saisho-ichidai/ogp.png"}, {"@type": "BreadcrumbList", "itemListElement": [{"@type": "ListItem", "position": 1, "name": "カメラ迷子ノート", "item": "https://uuhai0625.github.io/camera-maigo-note/"}, {"@type": "ListItem", "position": 2, "name": "買う前に迷ってる", "item": "https://uuhai0625.github.io/camera-maigo-note/#before"}, {"@type": "ListItem", "position": 3, "name": "初めてのカメラ、最初の一台は何で決めた?後悔した人・満足した人の声", "item": "https://uuhai0625.github.io/camera-maigo-note/saisho-ichidai/"}]}]}
 </script>
 </head>
 <body>
@@ -46,7 +46,7 @@
 <p class="ad-notice">この記事には広告(アフィリエイトリンク)が含まれます。</p>
 <p class="here"><svg class="icon" width="14" height="14" viewBox="0 0 24 24" fill="none" stroke="currentColor" stroke-width="2" stroke-linecap="round" stroke-linejoin="round" aria-hidden="true"><path d="M5.5 8.5h13l-1.2 11.5H6.7z"/><path d="M9 8.5V6.5a3 3 0 0 1 6 0v2"/><circle cx="12" cy="14.2" r="2.6"/></svg>現在地: 買う前に迷ってる</p>
 <h1>初めてのカメラ、最初の一台は何で決めた?後悔した人・満足した人の声</h1>
-<p class="meta">公開 2026-10-03 / 更新 2026-10-09</p>
+<p class="meta">公開 2026-10-03 / 更新 2026-10-14</p>
 <figure class="pic eyecatch"><img src="../images/illust/eye-saisho.webp" srcset="../images/illust/eye-saisho-m.webp 720w, ../images/illust/eye-saisho.webp 1200w" sizes="(max-width: 760px) calc(100vw - 32px), 720px" width="1200" height="800" alt="机に並べた2台のカメラとスマホを前に、ほおづえをついて考えている人の線画イラスト" fetchpriority="high" decoding="async"></figure>
 <p>初めてのカメラ、最初の一台を何で決めたかと、その後どうなったかを、64人分読んで並べました。見た目で決めた人にも、安さで決めた人にも、満足した人と後悔した人の両方がいます。同じ決め手でも割れたので、この決め手なら大丈夫、とは言えません。代わりに、人によって分かれていた点を、自分の条件で確かめる問いにしました。</p>
 <p>私はカメラを持っていないので、note・個人ブログ・知恵袋で、自分(または子ども)の最初の1台について書いた人の声を集めて整理する側です。買ったあとに後悔した理由そのものは、<a href="../koukai-koe/">一眼レフを買ったけど後悔…</a>にあるので、ここでは買う前の決め方と、始める順番を扱います。</p>
@@ -171,7 +171,7 @@
 <p>予算は、本体だけで考えると足りなくなった人がいます。<a href="https://note.com/hibi_jinsei32/n/n5250752e7c48" target="_blank" rel="noopener">ひびさん</a>は本体・周辺アイテム・バッグで総額140,873円、ばんりばさんは中古でもレンズ込み6万円で初期費用に驚きました。比較サイトの<a href="https://kakaku.com/camera/digital-slr-camera/guide_0049/" target="_blank" rel="noopener">価格.comの選び方ガイド</a>は、初めてならレンズキットを勧めています。レンズの規格(マウント)が合わないとレンズを付けられない、という注意も。けやまるさんは、マウントでその後のレンズが決まることを買ってから知りました。メーカー公式でマウントの注意を明記したページは、今回は見つけられませんでした。フルサイズかどうかは、声では決まりません。<a href="https://note.com/nagi96_cam/n/ncc5d711afb13" target="_blank" rel="noopener">なぎさん</a>は「なんか綺麗に写るらしいフルサイズ」を新品最安で選び、平田翼さんは性格で選んでいます。</p>
 <h3 id="step-saisho">5. 買ったら最初に</h3>
 <p>買ってすぐやったことを書いた人は少なく、幅があります。全部オートで撮り始めた<a href="https://note.com/take_photo37/n/nbf17c2c5cf0f" target="_blank" rel="noopener">たけさん</a>、3つの数字だけ勉強したばんりばさん、いきなりマニュアルの初さん。3日後に中古の単焦点を足したゆさん、解説本と動画で調べたAKGさんも。続きは、こちらの記事に分けています。</p>
-<ul><li>オートから一歩出るなら → <a href="../auto-sotsugyou/">カメラのオートモードから抜け出せない初心者は、まずPモードから</a></li><li>室内や夜でブレる・ザラザラする → <a href="../kurai-bure/">暗いところで撮れない…</a></li><li>小物を何から買うか → <a href="../accessory/">カメラアクセサリーは初心者に必要?</a></li><li>重くて持ち出さなくなったら → <a href="../omoi/">一眼レフが重くて使わなくなった…</a></li></ul>
+<ul><li>オートから一歩出るなら → <a href="../auto-sotsugyou/">カメラのPモードとは?オートとの違いと、抜け出す最初の使い方</a></li><li>室内や夜でブレる・ザラザラする → <a href="../kurai-bure/">暗いところで撮れない…</a></li><li>小物を何から買うか → <a href="../accessory/">カメラアクセサリーは初心者に必要?</a></li><li>重くて持ち出さなくなったら → <a href="../omoi/">一眼レフが重くて使わなくなった…</a></li></ul>
 <h2 id="owari">最初から正解を選ばなくていい、と書いた人</h2>
 <p>64人を読んで残ったのは、同じ決め手でも結果が割れる、ということでした。後悔の声は決め手が書かれていないことが多く、どの決め手が後悔につながるかは比べられません。コンデジから始めて、兄の中古とゲーム機を物々交換した701さんの結びを置いておきます。</p>
 <figure class="voice">

diff --git a/yametoke/index.html b/yametoke/index.html
@@ -27,7 +27,7 @@
 <link rel="stylesheet" href="../style.css">
 <script src="../ga.js" defer></script>
 <script type="application/ld+json">
-{"@context": "https://schema.org", "@graph": [{"@type": "Article", "headline": "カメラ趣味はやめとけ?やめた人・続けた人11件の声から理由を数えてみた", "description": "お金・重さ・撮るもの・SNS疲れ・スマホで十分。やめた人と続けた人11件の声から理由を数え、始める前に確かめることと選択肢を並べました。運営者はカメラを持たず、声を集めて整理しています。", "url": "https://uuhai0625.github.io/camera-maigo-note/yametoke/", "mainEntityOfPage": "https://uuhai0625.github.io/camera-maigo-note/yametoke/", "datePublished": "2026-10-01T09:00:00+09:00", "dateModified": "2026-10-09T09:00:00+09:00", "inLanguage": "ja", "author": {"@type": "Organization", "name": "カメラ迷子ノート", "url": "https://uuhai0625.github.io/camera-maigo-note/about/"}, "publisher": {"@type": "Organization", "name": "カメラ迷子ノート", "url": "https://uuhai0625.github.io/camera-maigo-note/", "logo": {"@type": "ImageObject", "url": "https://uuhai0625.github.io/camera-maigo-note/images/logo-square-512.png"}}, "image": "https://uuhai0625.github.io/camera-maigo-note/yametoke/ogp.png"}, {"@type": "BreadcrumbList", "itemListElement": [{"@type": "ListItem", "position": 1, "name": "カメラ迷子ノート", "item": "https://uuhai0625.github.io/camera-maigo-note/"}, {"@type": "ListItem", "position": 2, "name": "続けるか迷ってる", "item": "https://uuhai0625.github.io/camera-maigo-note/#keep"}, {"@type": "ListItem", "position": 3, "name": "カメラ趣味はやめとけ?やめた人・続けた人11件の声から理由を数えてみた", "item": "https://uuhai0625.github.io/camera-maigo-note/yametoke/"}]}]}
+{"@context": "https://schema.org", "@graph": [{"@type": "Article", "headline": "カメラ趣味はやめとけ?やめた人・続けた人11件の声から理由を数えてみた", "description": "お金・重さ・撮るもの・SNS疲れ・スマホで十分。やめた人と続けた人11件の声から理由を数え、始める前に確かめることと選択肢を並べました。運営者はカメラを持たず、声を集めて整理しています。", "url": "https://uuhai0625.github.io/camera-maigo-note/yametoke/", "mainEntityOfPage": "https://uuhai0625.github.io/camera-maigo-note/yametoke/", "datePublished": "2026-10-01T09:00:00+09:00", "dateModified": "2026-10-14T09:00:00+09:00", "inLanguage": "ja", "author": {"@type": "Organization", "name": "カメラ迷子ノート", "url": "https://uuhai0625.github.io/camera-maigo-note/about/"}, "publisher": {"@type": "Organization", "name": "カメラ迷子ノート", "url": "https://uuhai0625.github.io/camera-maigo-note/", "logo": {"@type": "ImageObject", "url": "https://uuhai0625.github.io/camera-maigo-note/images/logo-square-512.png"}}, "image": "https://uuhai0625.github.io/camera-maigo-note/yametoke/ogp.png"}, {"@type": "BreadcrumbList", "itemListElement": [{"@type": "ListItem", "position": 1, "name": "カメラ迷子ノート", "item": "https://uuhai0625.github.io/camera-maigo-note/"}, {"@type": "ListItem", "position": 2, "name": "続けるか迷ってる", "item": "https://uuhai0625.github.io/camera-maigo-note/#keep"}, {"@type": "ListItem", "position": 3, "name": "カメラ趣味はやめとけ?やめた人・続けた人11件の声から理由を数えてみた", "item": "https://uuhai0625.github.io/camera-maigo-note/yametoke/"}]}]}
 </script>
 </head>
 <body>
@@ -46,7 +46,7 @@
 <p class="ad-notice">この記事には広告(アフィリエイトリンク)が含まれます。</p>
 <p class="here"><svg class="icon" width="14" height="14" viewBox="0 0 24 24" fill="none" stroke="currentColor" stroke-width="2" stroke-linecap="round" stroke-linejoin="round" aria-hidden="true"><path d="M12 21V3.5"/><path d="M12 5h6l2 2-2 2h-6"/><path d="M12 11H6l-2 2 2 2h6"/><path d="M9 21h6"/></svg>現在地: 続けるか迷ってる</p>
 <h1>カメラ趣味はやめとけ?やめた人・続けた人11件の声から理由を数えてみた</h1>
-<p class="meta">公開 2026-10-01 / 更新 2026-10-09</p>
+<p class="meta">公開 2026-10-01 / 更新 2026-10-14</p>
 <figure class="pic eyecatch"><img src="../images/illust/eye-yame.webp" srcset="../images/illust/eye-yame-m.webp 720w, ../images/illust/eye-yame.webp 1200w" sizes="(max-width: 760px) calc(100vw - 32px), 720px" width="1200" height="800" alt="分かれ道の道しるべの前で、カメラを持って立ち止まっている人の線画イラスト" fetchpriority="high" decoding="async"></figure>
 <p>カメラを始めようか調べていると、「カメラ趣味 やめとけ」という言葉に、わりと早くぶつかるんですよね。もう始めている人なら、なおさら気になると思います。「やめとけ」と言われると、自分の迷いを肯定されたような、否定されたような、落ち着かない気持ちになります。</p>
 <p>この記事では、やめた人・やめかけた人・続けている人の記事を11件読んで、よく挙がっていた理由を5つに整理しました。そのあとに、続けた人の例と、続ける・やめるの間にある選択肢を並べています。</p>
@@ -141,6 +141,7 @@
 <h2>これから始める人が、先に確かめておけること</h2>
 <p>検索でここに来た人の多くは、まだ買う前だと思います。集めた理由を、そのまま自分への質問に変えてみると、こんな感じになります。答えが出なくても、それ自体が1つの材料です。</p>
 <ul><li><strong>撮りたいものと、写真の行き先を言えるか。</strong> 動機が「趣味がほしいから」だけだと、撮るものがなくなったときに止まりやすい、という指摘が一般論の記事(沼探)にありました。撮ったあとの写真をどうするか(プリント、家族に送る、SNS、自分で見返す)まで言えると、続いた人の例に近づきます。</li><li><strong>週に何回、持ち出せそうか。</strong> 重さの理由は「持ち出さない日は一枚も残らない」に行き着きます。通勤や休日の動きの中に、カメラを持つ時間があるかを想像してみてください。</li><li><strong>スマホで足りない場面を、具体的に言えるか。</strong> 20年続けている人でも普段の記録の9割はスマホ、という例がありました。「スマホでは撮れない何か」が1つでもあるか、で向いている・向いていないの目安が少し見えると思います。</li><li><strong>お金の目安を知っているか。</strong> モノスクラムの方は、入門向けのミラーレスでも10万円以上かかると書いていました。本体のあとに、レンズや周辺機器が増えていくことも織り込んでおくと、あとから驚きにくいです。</li><li><strong>買って後悔した人の声も読んでおく。</strong> 一眼レフやミラーレスを買って後悔した人の体験談は、<a href="../koukai-koe/">一眼レフを買ったけど後悔…体験談で目立ったのは性能以外の理由</a>にまとめています。</li><li><strong>比べる相手がいると疲れやすいか。</strong> SNSで他人の写真や機材と比べて疲れた、という声が体験談8件中4件にありました。自分がそのタイプだと思うなら、最初から見せる場所を決めておくのも1つの手です。</li></ul>
+<p>それでも始めると決めた人が、最初の一台を何で決めたかは<a href="../saisho-ichidai/">初めてのカメラ、最初の一台は何で決めた?</a>に64人分まとめました。</p>
 <h2>続ける・やめるの間にある選択肢</h2>
 <figure class="pic"><img src="../images/photo/yametoke-bag.webp" srcset="../images/photo/yametoke-bag-m.webp 720w, ../images/photo/yametoke-bag.webp 1200w" sizes="(max-width: 760px) calc(100vw - 32px), 720px" width="1200" height="800" alt="草の上に置かれた帆布のショルダーバッグ" loading="lazy" decoding="async"><figcaption>イメージ写真: <a href="https://unsplash.com/photos/s6M63HPGb5E" target="_blank" rel="noopener">Larry George II / Unsplash</a></figcaption></figure>
 <p>「続ける」か「やめる」かの二択で考えると苦しいのですが、読んだ記事の中には、その間にある選択肢がいくつか出てきました。押しつけるつもりはなく、こういう道もあった、という並べ方です。</p>

diff --git a/index.html b/index.html
@@ -75,7 +75,7 @@
     <ul class="stops">
       <li class="has-thumb"><a href="omoi/"><img src="images/illust/eye-omoi-s.webp" width="360" height="240" alt="" loading="lazy" decoding="async"><span>一眼レフが重くて使わなくなった…軽くしても持ち歩かない人も</span></a></li>
       <li class="has-thumb"><a href="accessory/"><img src="images/illust/eye-accessory-s.webp" width="360" height="240" alt="" loading="lazy" decoding="async"><span>カメラアクセサリーは初心者に必要?いらなかった声も品目別に</span></a></li>
-      <li class="has-thumb"><a href="auto-sotsugyou/"><img src="images/illust/eye-auto-s.webp" width="360" height="240" alt="" loading="lazy" decoding="async"><span>カメラのオートモードから抜け出せない初心者は、まずPモードから</span></a></li>
+      <li class="has-thumb"><a href="auto-sotsugyou/"><img src="images/illust/eye-auto-s.webp" width="360" height="240" alt="" loading="lazy" decoding="async"><span>カメラのPモードとは?オートとの違いと、抜け出す最初の使い方</span></a></li>
       <li class="has-thumb"><a href="kurai-bure/"><img src="images/illust/eye-kurai-s.webp" width="360" height="240" alt="" loading="lazy" decoding="async"><span>暗いところで撮れない…室内・夜にブレる・ザラザラになる原因と対策</span></a></li>
       <li class="has-thumb"><a href="roshutsu-hosei/"><img src="images/illust/eye-roshutsu-s.webp" width="360" height="240" alt="" loading="lazy" decoding="async"><span>一眼の写真が暗い・白っぽい…露出補正で直る場面と直らない場面</span></a></li>
       <li class="soon">三脚なしで手ブレを減らす持ち方と、シャッタースピードの目安</li>
